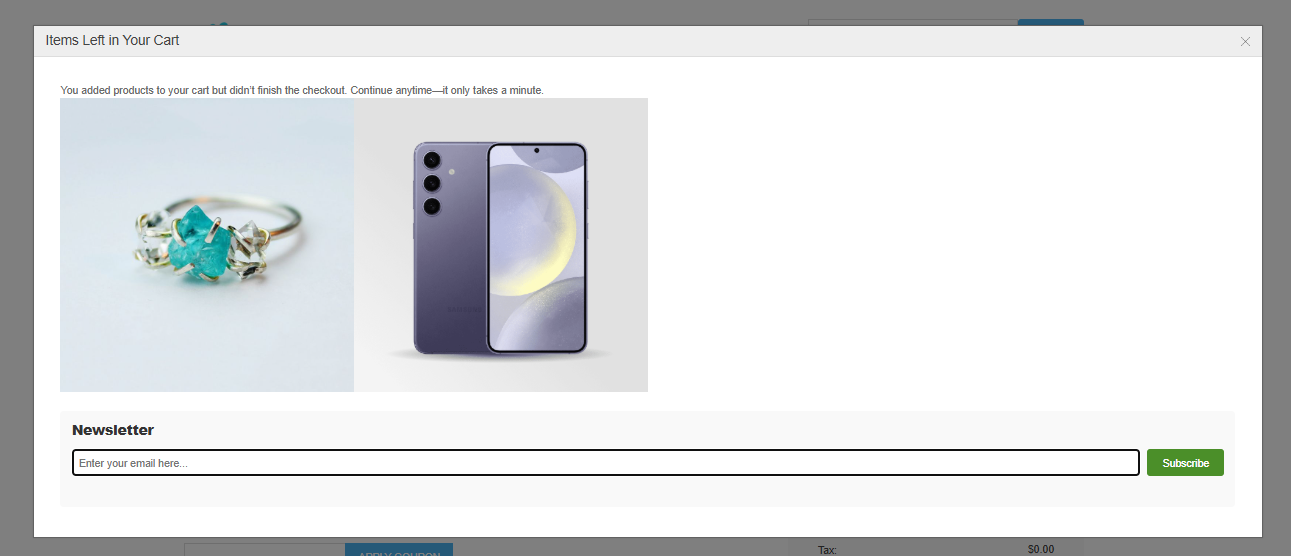
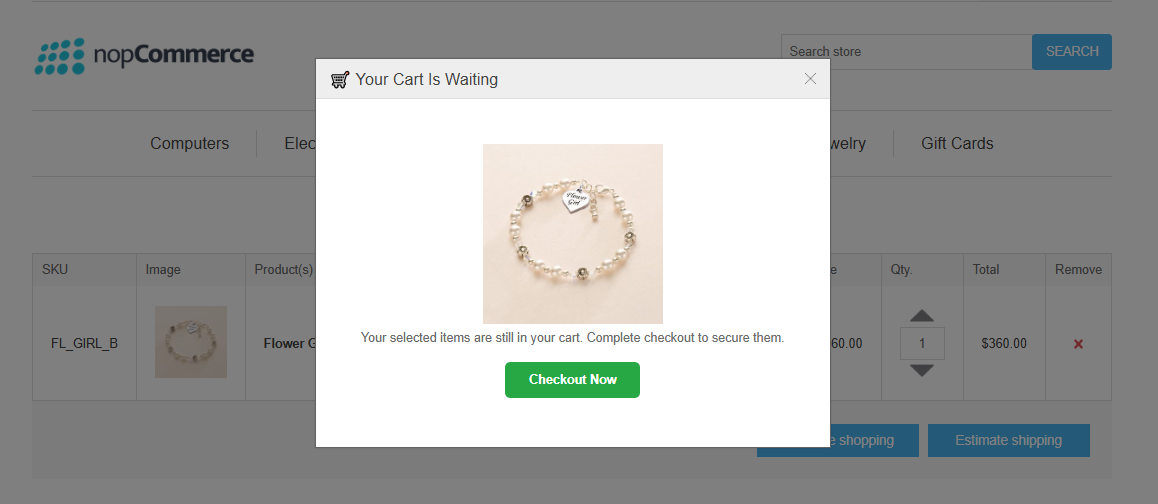
Update images in popup engage configration page and senerio of use page

diff --git a/docs/popupEngage/Configuration.md b/docs/popupEngage/Configuration.md
@@ -6,14 +6,14 @@ This guide explains how to configure the **Popup Engage** plugin to get the best
 
 - If you run multiple stores, select the specific store you want to configure from the dropdown list at the top of the configuration page.
 
-  ![confgiure1](../assets/img/popup_configure.png)
+  ![confgiure1](../assets/img/popup_configure.png){ .img-border }
 
 
 ## Home Page Popup Settings
 
 These settings control the popup that appears when a customer visits your site's **Home page**.
 
-![confgiure1](../assets/img/popup_configure1.png)
+![confgiure1](../assets/img/popup_configuration1.png){ .img-border }
 
 - **Home Page Popup Enabled :** Enable this option to display the popup on the Home page.
 
@@ -31,7 +31,7 @@ These settings control the popup that appears when a customer visits your site's
 
 These settings control the **Exit-Intent (Abandoned Cart) popup**, which appears when a customer tries to leave the site with items still in their cart.
 
-![confgiure2](../assets/img/popup_configure(2).png)
+![confgiure2](../assets/img/popup_configuration2.png){ .img-border }
 
 - **Abandoned Cart Popup Enabled :** Enable this option to activate the exit-intent popup.
 

diff --git a/docs/popupEngage/senerioOfUse.md b/docs/popupEngage/senerioOfUse.md
@@ -10,7 +10,7 @@
 - **Dynamic Content :** Displays the specific **Topic** selected in settings (image, text, or video).
 - **Distraction-Free :** Unlike other popups, the Home Page popup does **not** show a newsletter subscription form. The focus stays 100% on your announcement.
 
-![cartpopup](../assets/img/popup_home.png)
+![cartpopup](../assets/img/popup_home.png){ .img-border }
 ---
 
 ## Abandoned Cart Popup 
@@ -28,13 +28,13 @@
     - **What they see :** Message + Newsletter Form  
     - **Why :** Since the user is unknown, the popup includes a subscription form to capture their email as a lead—even if they don’t complete the purchase.
 
-![cartpopup](../assets/img/popup_cart1.png)
+![cartpopup](../assets/img/popup_cart1.png){ .img-border }
 
 - **Logged-in Customers**  
     - **What they see :** Message only (No Form)  
     - **Why :** The email is already known, so the form is hidden. The popup focuses purely on the offer (e.g., *“Use code SAVE10”*) to help them complete checkout faster.
 
-![cartpopup](../assets/img/popup_cart.png)
+![cartpopup](../assets/img/popup_cart2.png){ .img-border }
 
 
 [← Previous](Configuration.md) | [Next →](Help.md)

diff --git a/docs/popupEngage/Help.md b/docs/popupEngage/Help.md
@@ -13,6 +13,6 @@ You can also send us the exact steps to reproduce the issue by recording it usin
 4. You will be prompted to save a **.zip** file.
 5. Email the saved **.zip** file to us along with a short description of the issue.
 
-![help](../assets/img/help.png)
+![help](../assets/img/help.png){ .img-border }
 
 [← Previous](senerioOfUse.md) 